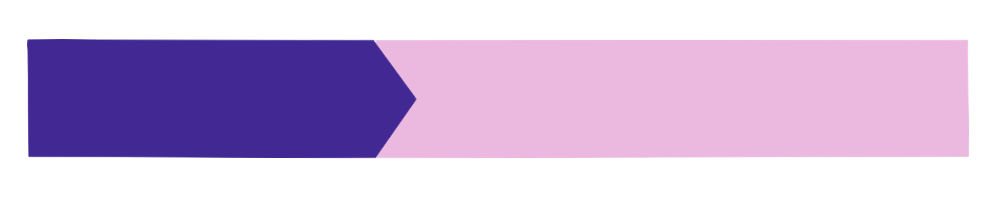
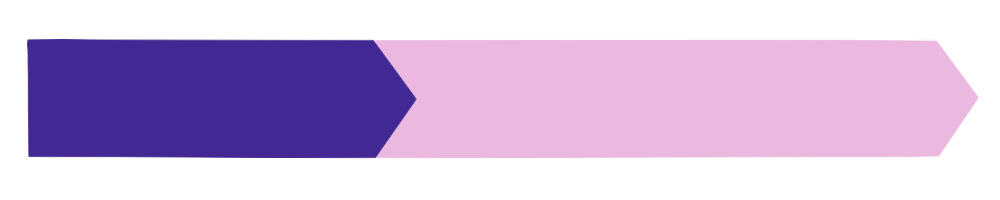
Dodavanje sekundarne navigacije na ekran Kompleksnih brojeva

Changed region(s): [[0.93, 0.57, 0.992, 0.81], [0.93, 0.18, 0.992, 0.39], [0.961, 0.45, 0.992, 0.54]]

diff --git a/MathTVZApp/CSS/KompleksniBrojevi.css b/MathTVZApp/CSS/KompleksniBrojevi.css
@@ -22,6 +22,28 @@
     height: 60px;
     width: 300px;
 }
+#lnkLekcije {
+    position: absolute;
+    margin-top: -905px;
+    margin-left: 180px;
+    font-family: 'Trebuchet MS', 'Lucida Sans Unicode', 'Lucida Grande', 'Lucida Sans', Arial, sans-serif;
+    font-size: 100%;
+    text-transform: capitalize;
+    color: rgb(235, 184, 224);
+    z-index: 1;
+    width: 90px;
+}
+#lnkKompleksni {
+    position: absolute;
+    font-family: 'Trebuchet MS', 'Lucida Sans Unicode', 'Lucida Grande', 'Lucida Sans', Arial, sans-serif;
+    margin-top: -905px;
+    margin-left: 305px;
+    font-size: 100%;
+    text-transform: none;
+    color: rgb(063, 039, 147);
+    width: 150px;
+    z-index: 2;
+}
 #footerKompleksni {
     position: absolute;
     overflow: hidden;
